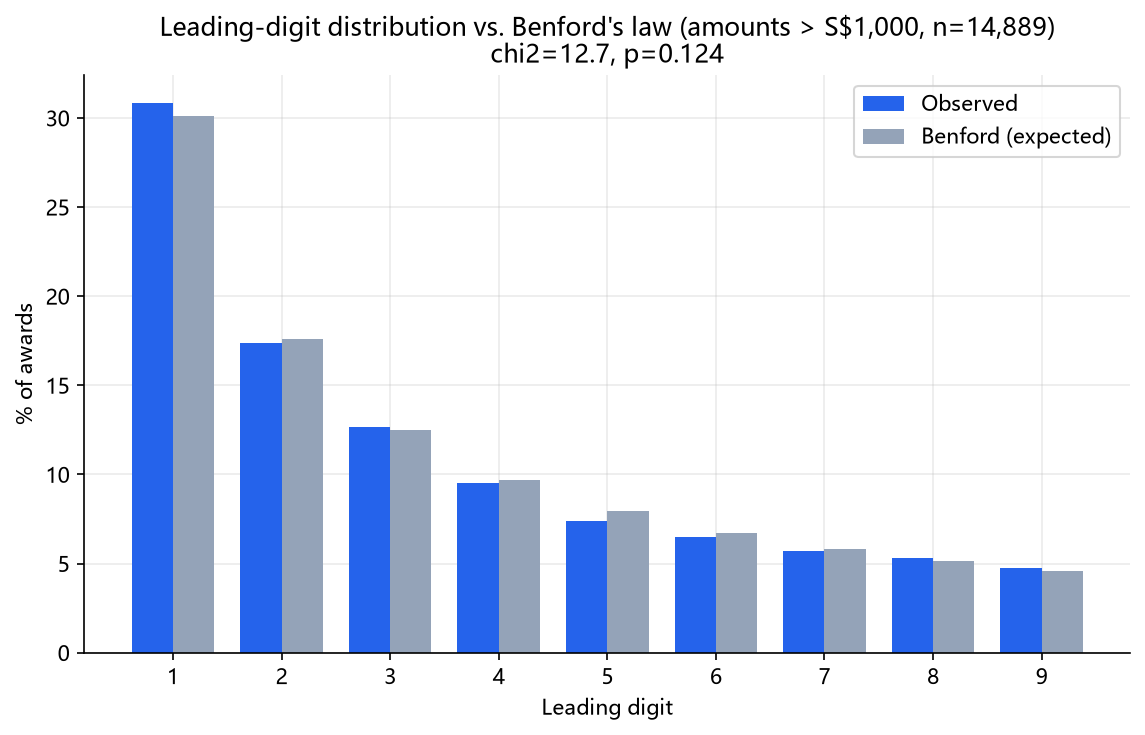
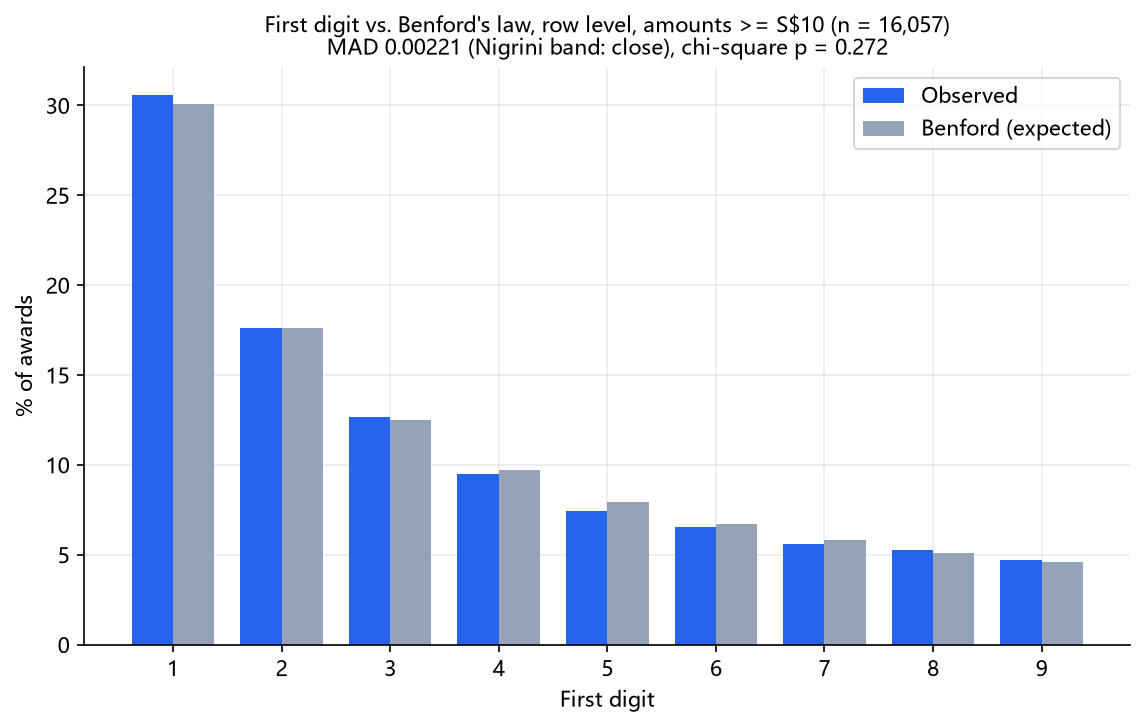
Redraw Benford figures with MAD and add two-digit chart
Both charts use row-level amounts of at least S$10 and show n, MAD, the
Nigrini band and the chi-square p-value in the title.

diff --git a/src/make_figures.py b/src/make_figures.py
@@ -12,8 +12,7 @@ import pandas as pd
 
 from analysis import (
     aggregate_by_tender,
-    benford_test,
-    BENFORD_EXPECTED,
+    benford_mad,
     concentration_by_group,
     threshold_window_counts,
     top_suppliers,
@@ -85,24 +84,41 @@ def fig_threshold_zoom(df: pd.DataFrame, threshold: float = 90000, lo: float = 8
     plt.close(fig)
 
 
-def fig_benford(df: pd.DataFrame, min_amount: float = 1000) -> None:
-    result = benford_test(df["awarded_amt"], min_amount=min_amount)
-    digits = list(range(1, 10))
-    observed = [result["observed_pct"][d] for d in digits]
-    expected = [BENFORD_EXPECTED[d] * 100 for d in digits]
+def _benford_title(label: str, r: dict) -> str:
+    return (f"{label} vs. Benford's law, row level, amounts >= S${r['min_amount']:,.0f} (n = {r['n']:,})\n"
+            f"MAD {r['mad']:.5f} (Nigrini band: {r['band']}), chi-square p = {r['p_value']:.3g}")
 
+
+def fig_benford(df: pd.DataFrame, min_amount: float = 10) -> None:
+    r = benford_mad(df["awarded_amt"], digits=1, min_amount=min_amount)
+    t = r["table"]
     fig, ax = plt.subplots()
     width = 0.38
-    x = np.arange(1, 10)
-    ax.bar(x - width / 2, observed, width, label="Observed", color="#2563eb")
-    ax.bar(x + width / 2, expected, width, label="Benford (expected)", color="#94a3b8")
+    x = t.index.to_numpy()
+    ax.bar(x - width / 2, t["observed"] * 100, width, label="Observed", color="#2563eb")
+    ax.bar(x + width / 2, t["expected"] * 100, width, label="Benford (expected)", color="#94a3b8")
     ax.set_xticks(x)
-    ax.set_xlabel("Leading digit")
+    ax.set_xlabel("First digit")
     ax.set_ylabel("% of awards")
-    ax.set_title(f"Leading-digit distribution vs. Benford's law (amounts > S${min_amount:,.0f}, n={result['n']:,})\n"
-                 f"chi2={result['chi2']:.1f}, p={result['p_value']:.3f}")
+    ax.set_title(_benford_title("First digit", r), fontsize=10)
     ax.legend()
     fig.savefig(FIG_DIR / "benford_test.png")
+    plt.close(fig)
+
+
+def fig_benford_two_digits(df: pd.DataFrame, min_amount: float = 10) -> None:
+    r = benford_mad(df["awarded_amt"], digits=2, min_amount=min_amount)
+    t = r["table"]
+    fig, ax = plt.subplots(figsize=(11, 5))
+    ax.bar(t.index, t["observed"] * 100, width=0.8, label="Observed", color="#2563eb")
+    ax.plot(t.index, t["expected"] * 100, color="#dc2626", linewidth=1.5, label="Benford (expected)")
+    ax.set_xticks(np.arange(10, 100, 10))
+    ax.set_xlim(9, 100)
+    ax.set_xlabel("First two digits")
+    ax.set_ylabel("% of awards")
+    ax.set_title(_benford_title("First two digits", r), fontsize=10)
+    ax.legend()
+    fig.savefig(FIG_DIR / "benford_two_digits.png")
     plt.close(fig)
 
 
@@ -141,7 +157,8 @@ if __name__ == "__main__":
     fig_concentration(df)
     fig_amount_distribution(df)
     fig_threshold_zoom(df)
-    fig_benford(df, min_amount=1000)
+    fig_benford(df)
+    fig_benford_two_digits(df)
     fig_yearly_trend(df)
     fig_top_suppliers(df)
     print(f"Figures written to {FIG_DIR}")
